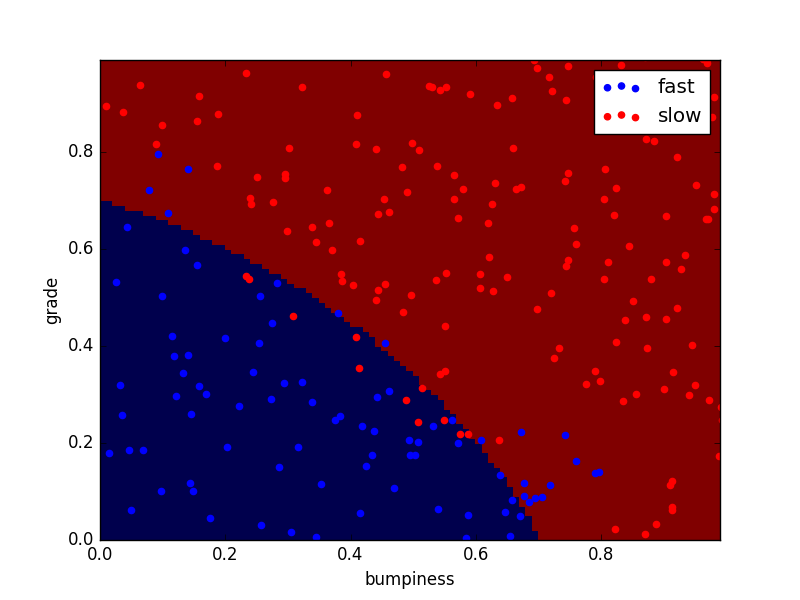
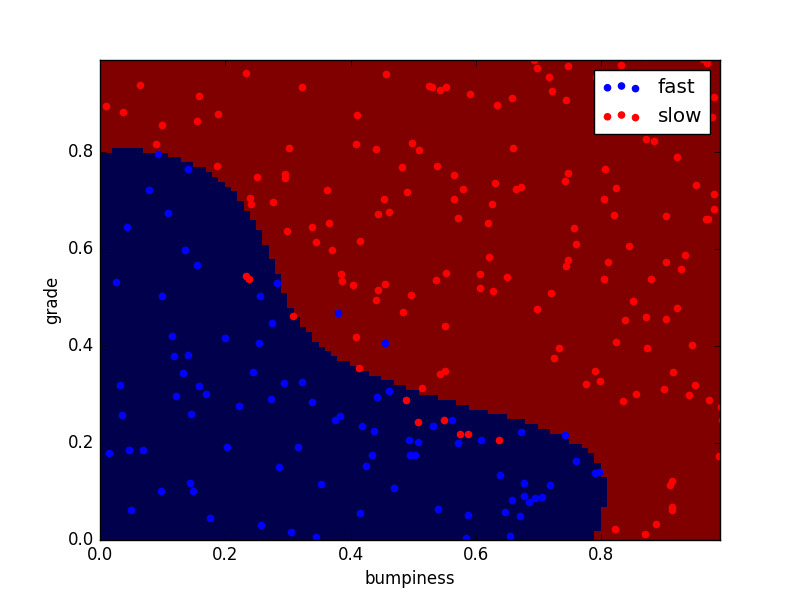
Completed SVM lesson

diff --git a/proj/ud120-projects/svm/svm_author_id.py b/proj/ud120-projects/svm/svm_author_id.py
@@ -25,6 +25,44 @@ features_train, features_test, labels_train, labels_test = preprocess()
 #########################################################
 ### your code goes here ###
 
+from sklearn.svm import SVC
+from sklearn.externals import joblib
+
+# C = 10000 is optimized following training course. 10,100,1000 were tried as well.
+clf = SVC(kernel="rbf", C=10000)
+retrain = False
+try:
+    clf = joblib.load('clf.pki')
+except:
+    print('Need to retrain');
+    retrain = True
+
+# slice the array to 1% since RBF is so slow
+#features_train = features_train[:len(features_train)/100] 
+#labels_train = labels_train[:len(labels_train)/100] 
+
+### fit the classifier on the training features and labels
+if retrain == True:
+    t0 = time()
+    clf.fit(features_train, labels_train)
+    joblib.dump(clf, 'clf.pki')
+    print "training time:", round(time()-t0, 3), "s"
+
+
+### calculate and return the accuracy on the test data
+### this is slightly different than the example,
+### where we just print the accuracy
+### you might need to import an sklearn module
+t0 = time()
+pred = clf.predict(features_test)
+print(pred[10], pred[26], pred[50])
+print "predict time:", round(time()-t0, 3), "s"
+
+print(pred.tolist().count(1))
+print(pred.tolist().count(0))
+
+accuracy = clf.score(features_test, labels_test)
+print(accuracy)
 #########################################################
 
 

diff --git a/svm/quiz-coding-up-svm.py b/svm/quiz-coding-up-svm.py
@@ -1,0 +1,42 @@
+import sys
+from class_vis import prettyPicture
+from prep_terrain_data import makeTerrainData
+
+import matplotlib.pyplot as plt
+import copy
+import numpy as np
+import pylab as pl
+
+
+features_train, labels_train, features_test, labels_test = makeTerrainData()
+
+
+########################## SVM #################################
+### we handle the import statement and SVC creation for you here
+from sklearn.svm import SVC
+clf = SVC(kernel="linear")
+
+
+#### now your job is to fit the classifier
+#### using the training features/labels, and to
+#### make a set of predictions on the test data
+
+clf.fit(features_train, labels_train)
+
+pred = clf.predict(features_test)
+
+#print(clf.predict([[-0.8, -1]]))
+
+#### store your predictions in a list named pred
+
+
+
+
+
+from sklearn.metrics import accuracy_score
+acc = accuracy_score(pred, labels_test)
+
+print(acc)
+
+def submitAccuracy():
+    return acc

diff --git a/naive-bayes/deployment-on-terrain-data/classify.py b/naive-bayes/deployment-on-terrain-data/classify.py
@@ -1,10 +1,11 @@
 def NBAccuracy(features_train, labels_train, features_test, labels_test):
     """ compute the accuracy of your Naive Bayes classifier """
     ### import the sklearn module for GaussianNB
-    from sklearn.naive_bayes import GaussianNB
-
-    ### create classifier
-    clf = GaussianNB()
+    #from sklearn.naive_bayes import GaussianNB
+    #clf = GaussianNB()
+    from sklearn.svm import SVC
+    clf = SVC(kernel="linear")
+    
 
     ### fit the classifier on the training features and labels
     clf.fit(features_train, labels_train)

diff --git a/naive-bayes/deployment-on-terrain-data/ClassifyNB.py b/naive-bayes/deployment-on-terrain-data/ClassifyNB.py
@@ -9,5 +9,10 @@ def classify(features_train, labels_train):
     ### your code goes here!
     from sklearn.naive_bayes import GaussianNB
     clf = GaussianNB()
+    
+    # Test with SVM to see how the image behaves with RBF and large C
+    #from sklearn.svm import SVC
+    #clf = SVC(kernel="rbf", C=100000)
+    
     clf.fit(features_train, labels_train)
     return clf

diff --git a/svm/test.py b/svm/test.py
@@ -1,0 +1,7 @@
+import numpy as np
+X = np.array([[-1, -1], [-2, -1], [1, 1], [2, 1]])
+y = np.array([1, 1, 2, 2])
+from sklearn.svm import SVC
+clf = SVC()
+clf.fit(X, y)
+print(clf.predict([[-0.8, -1]]))
